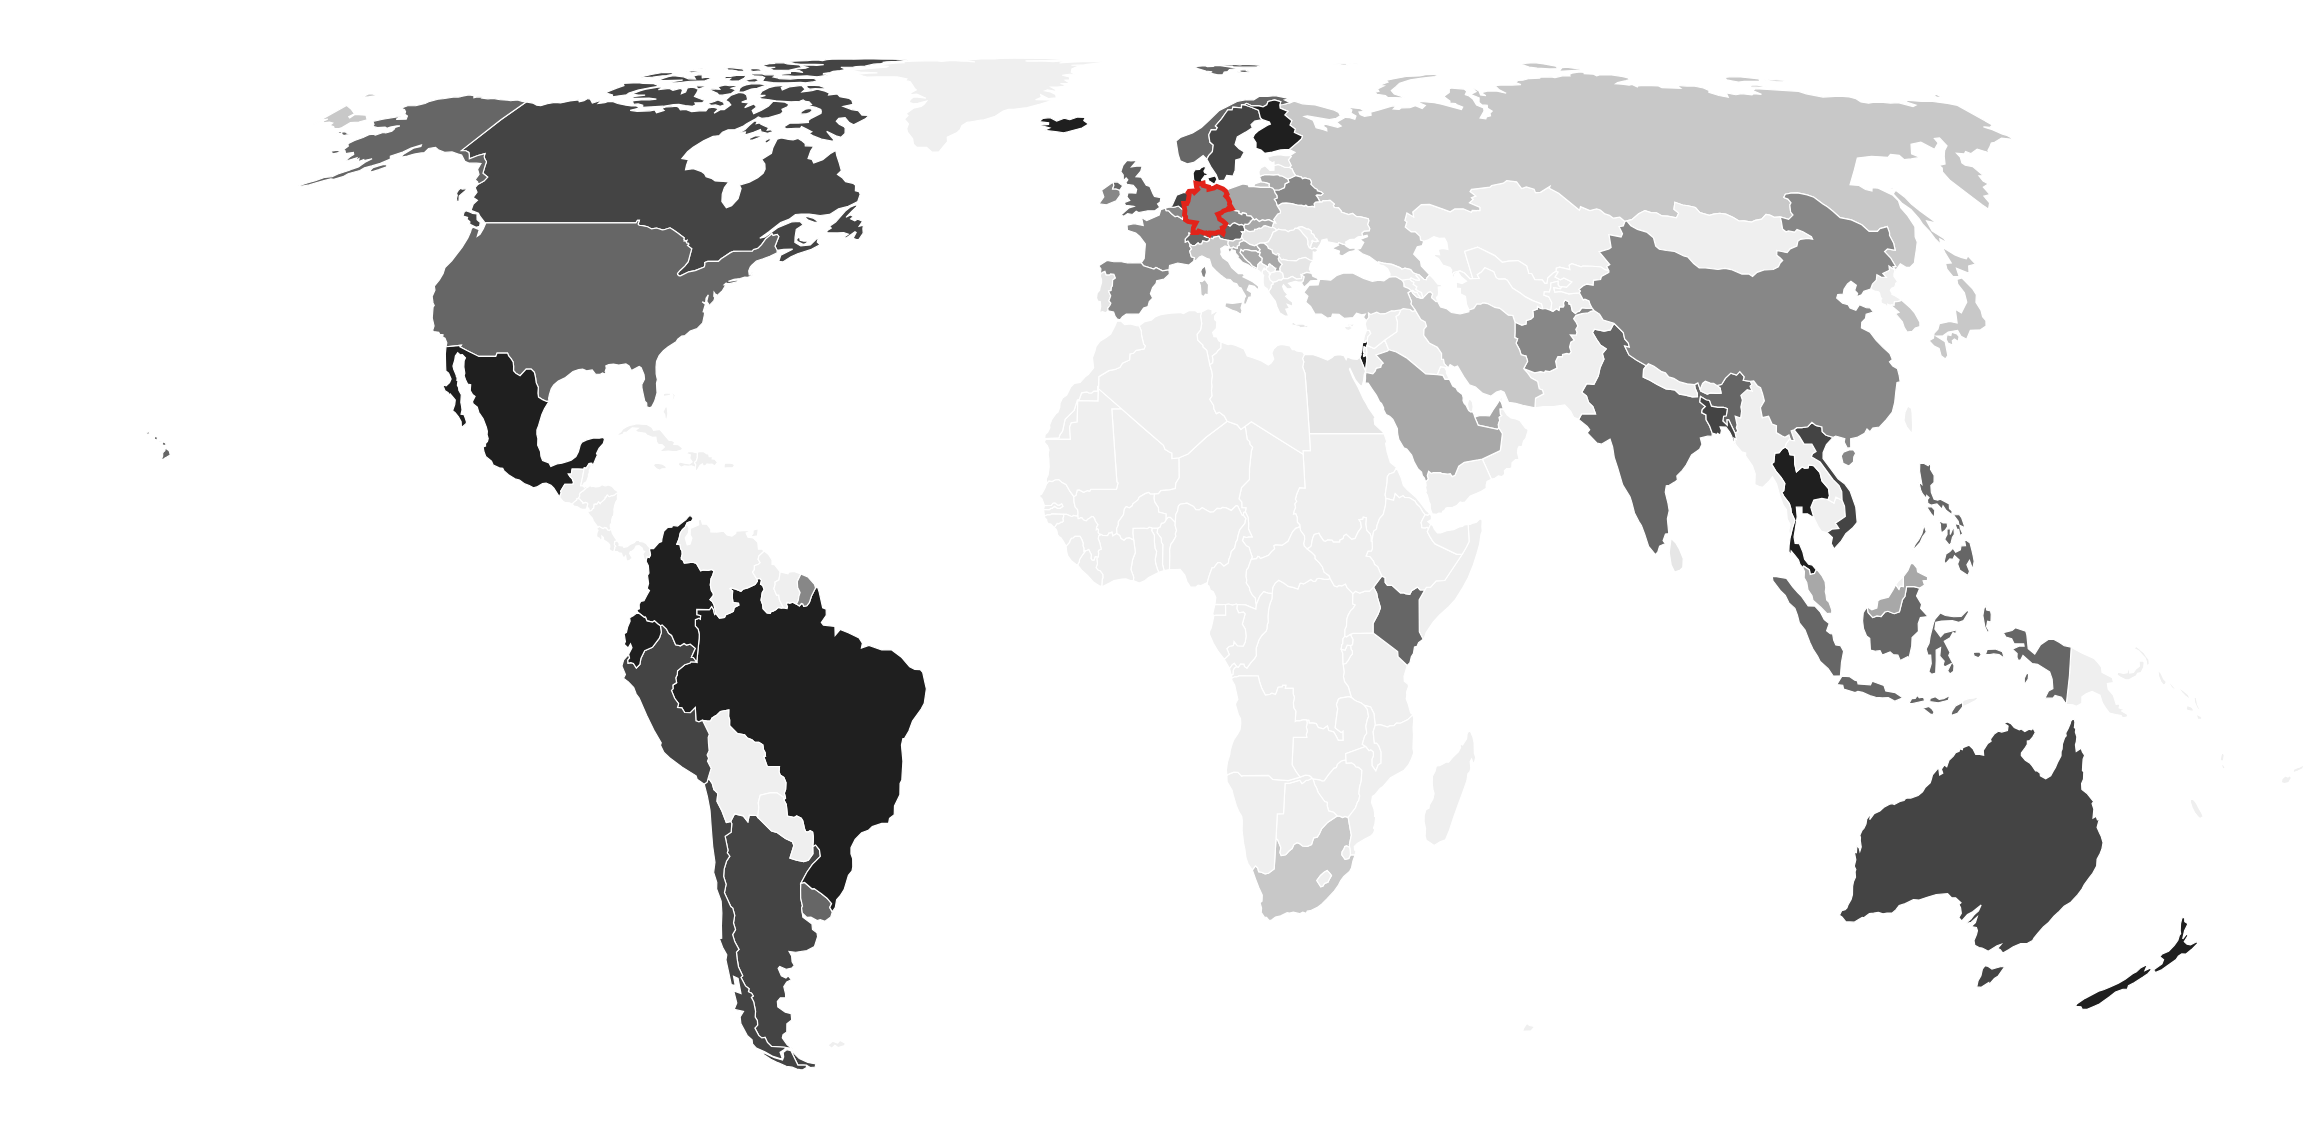
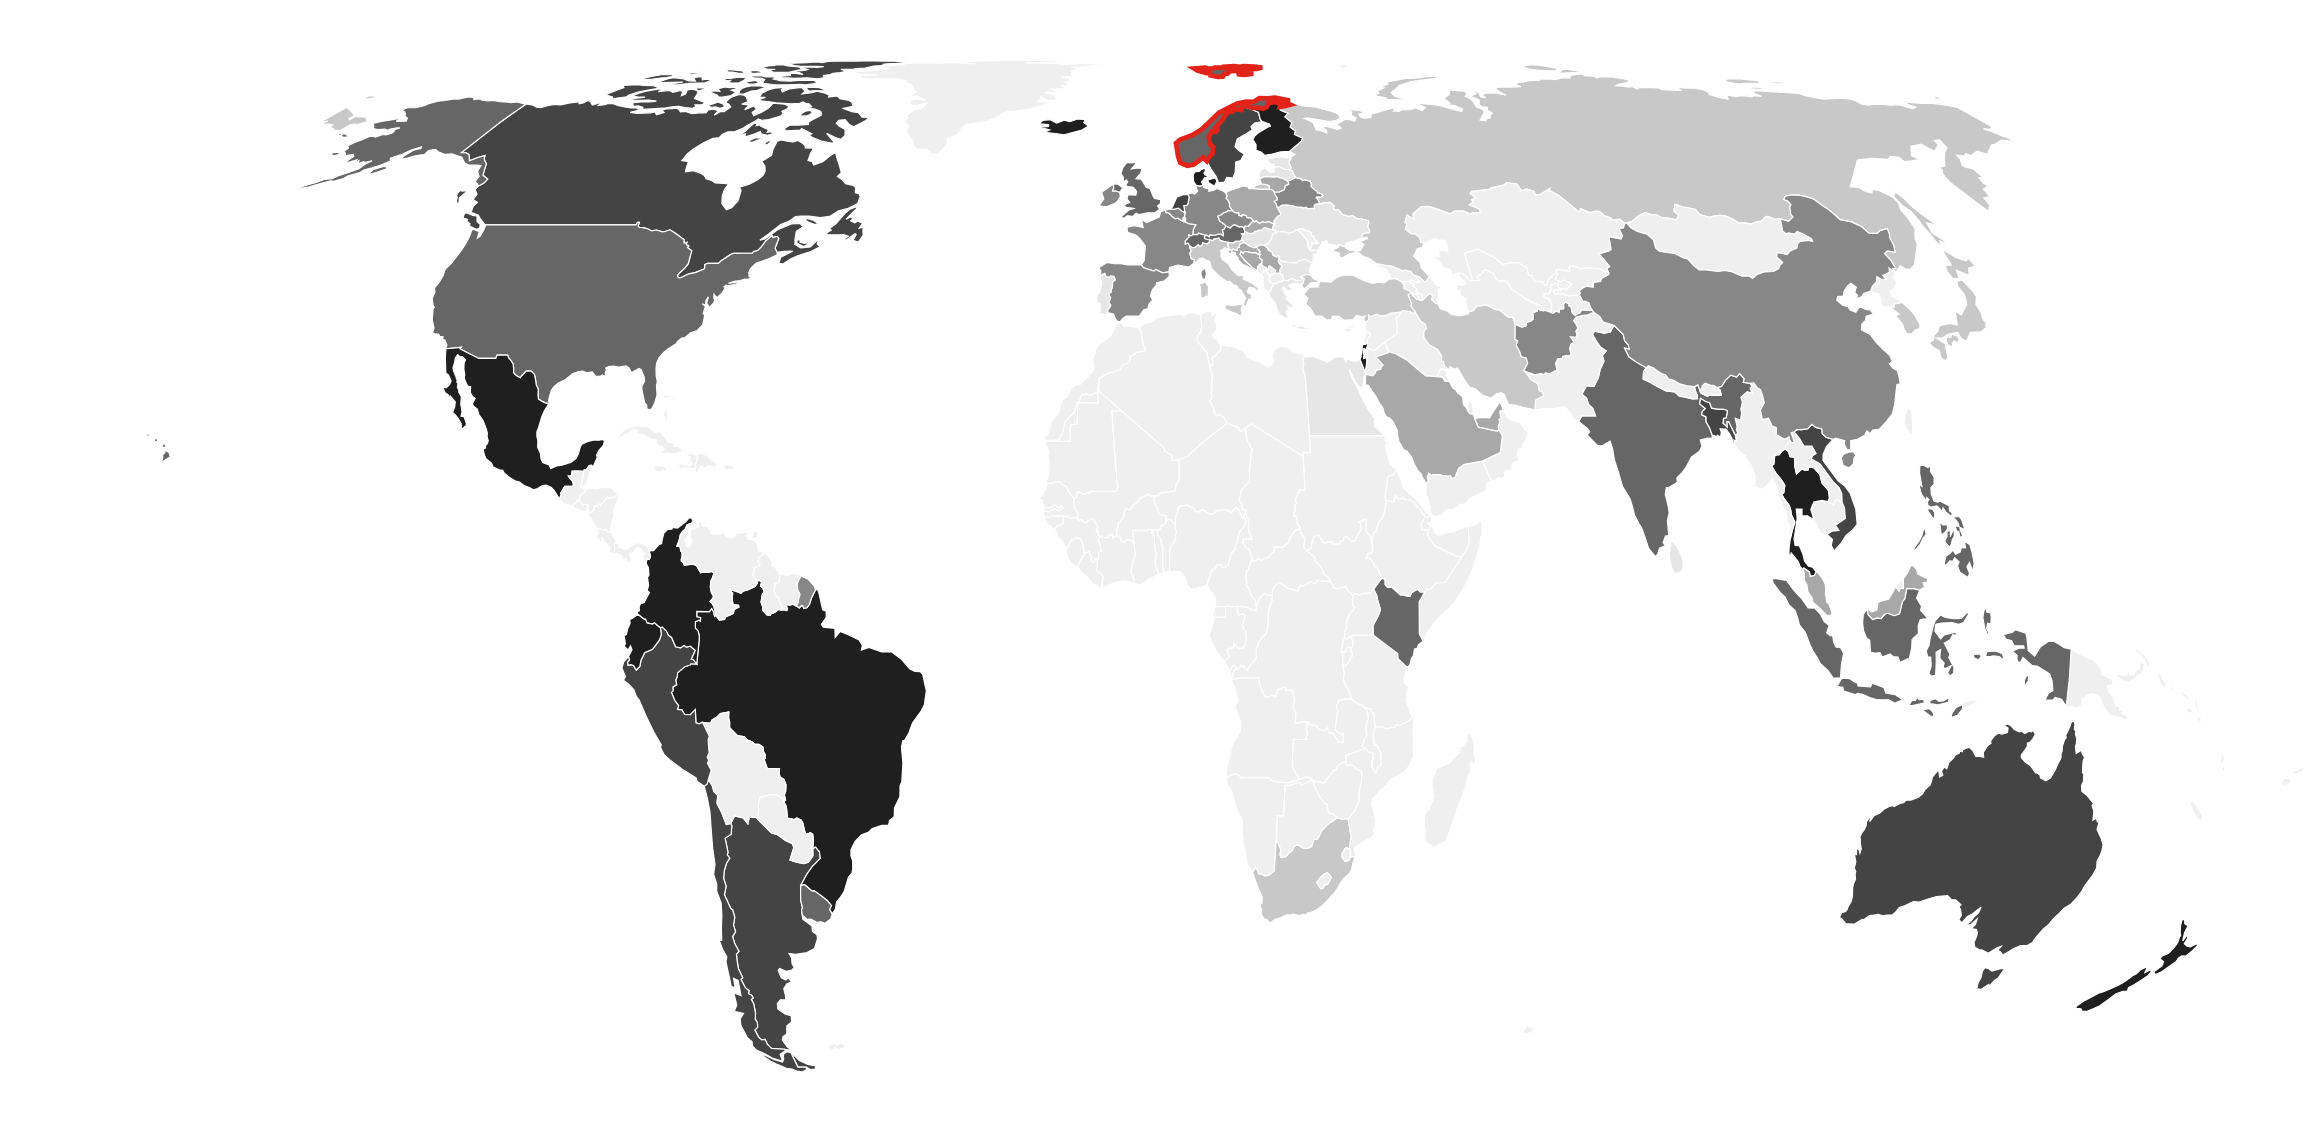
Write up Norway, Mexico and the other reports

diff --git a/README.md b/README.md
@@ -20,6 +20,37 @@ What's interesting is what *doesn't* matter. Whether the people in the photos ar
 
 Mexico, Brazil and Colombia sit at the top: much happier than their GDP suggests. Bulgaria, Hungary and Greece sit at the bottom. The UAE and the Maldives are the outliers on the right. Both have very few local photographers (5 and 6), so I wouldn't read much into them.
 
+## Norway and Mexico
+
+![Norway and Mexico](figures/norway-mexico.png)
+
+**Norway** is the country you'd expect to see here. It's rich and always near the top: #4 of 67 in the 2012-14 report, #6 in 2024 and #5 in the World Values Survey. Its photos are mostly landscapes. Half show nature, and fewer than one in ten show people together. The model puts Norway at #6, right where the surveys do, but GDP alone would have put it at #2. Norway is happy, and the photos don't really explain why. The money does most of that work.
+
+**Mexico** is the surprise. It has a quarter of Norway's GDP per head, yet it ranks #13, #8 and #10 in the three surveys. 15% of its local photos show people together, against a typical 9%. Of all 69 countries it's the most "happier than its wealth predicts". The photos pull the model in the right direction: GDP alone ranks Mexico #46, and GDP plus people photos ranks it #37. That's still nowhere near the real #8. Whatever makes Mexico happy, a camera only catches part of it.
+
+## Against other reports
+
+The model learned from one report, the World Happiness Report for 2012-14. So I checked its predictions against two things it never saw:
+
+- the same report ten years later (2024)
+- the World Values Survey, which simply asks "would you say you are happy?", mostly in its 2017-2022 wave
+
+![Comparison with other reports](figures/reports.png)
+
+Rank correlation between each prediction and each report:
+
+| Report | Countries | GDP + people photos | GDP only |
+|---|---:|---:|---:|
+| WHR 2012-14 | 67 | **0.80** | 0.77 |
+| WHR 2024 | 67 | 0.73 | **0.77** |
+| World Values Survey | 64 | 0.33 | **0.34** |
+
+The honest reading: the photos help on the data they learned from, but the edge doesn't carry over. On the newer report and on the other survey, GDP alone does as well or slightly better. Two likely reasons. Ten years is a long time: Serbia, Lithuania and Romania each moved more than 20 places. And "are you happy?" is a different question from "rate your life 0 to 10". In this data, GDP tracks the life ratings far more closely (0.77) than it tracks plain happiness (0.34). That's also why both predictions match the World Values Survey so poorly.
+
+![Model vs WHR 2024 vs World Values Survey, ranks](figures/ranks.png)
+
+Full numbers per country: [`data/processed/compare_countries.csv`](data/processed/compare_countries.csv).
+
 ## Signals
 
 Rank correlation with happiness after taking out log GDP per head, 67 countries:
@@ -63,6 +94,7 @@ Open Images                        ->  same Flickr photos, image files and label
    - Ridge regression on all signals, leave one country out, against 1,000 shuffled runs.
    - Partial correlation after log GDP.
    - GDP-only vs GDP + people signals, leave one country out, against 1,000 runs with the photo signals shuffled between countries.
+7. **Other reports.** Both predictions are checked against the WHR 2024 and the World Values Survey "happy" share, by rank correlation.
 
 ## Caveats
 
@@ -86,6 +118,7 @@ python src/fetch_labels.py human
 python src/colour.py
 python src/features.py
 python src/model.py          # the placebo runs take a few minutes
+python src/compare.py
 python src/export_site.py
 ```
 
@@ -93,7 +126,7 @@ You need two raw files first:
 - `data/raw/placemeta.sqlite`: [MediaEval 2016 placing metadata](https://multimedia-commons.s3.amazonaws.com/subsets/YLI-GEO/mp16/metadata/placemeta_train_photo.sql)
 - `data/raw/boxable_train_ids.txt`: the first column of [Open Images boxable train ids](https://storage.googleapis.com/openimages/2018_04/train/train-images-boxable-with-rotation.csv)
 
-The happiness and GDP files are already in `data/raw`. The site in `docs/` is plain HTML and d3, with no build step:
+The happiness, survey and GDP files are already in `data/raw`. The site in `docs/` is plain HTML and d3, with no build step:
 
 ```
 cd docs && python -m http.server
@@ -102,7 +135,7 @@ cd docs && python -m http.server
 ## Data and credits
 
 - Photos: Flickr users, via [YFCC100M](https://multimediacommons.wordpress.com/yfcc100m-core-dataset/) and [Open Images](https://storage.googleapis.com/openimages/web/index.html), CC BY 2.0. Each thumbnail on the site links back to the original.
-- Happiness: [World Happiness Report](https://worldhappiness.report/) via [Our World in Data](https://ourworldindata.org/happiness-and-life-satisfaction).
+- Happiness: [World Happiness Report](https://worldhappiness.report/) (survey years 2012-14 and 2024) and [World Values Survey](https://www.worldvaluessurvey.org/), both via [Our World in Data](https://ourworldindata.org/happiness-and-life-satisfaction).
 - GDP per head (PPP): World Bank via Our World in Data.
 - Map shapes: [Natural Earth](https://www.naturalearthdata.com/) via [world-atlas](https://github.com/topojson/world-atlas).
 
